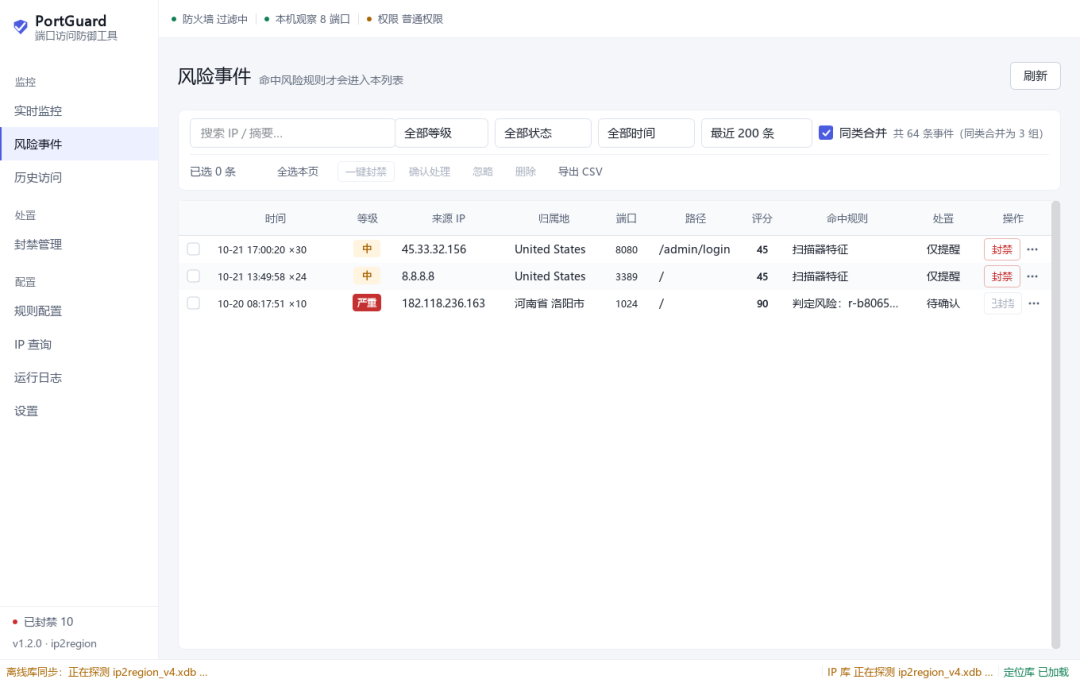
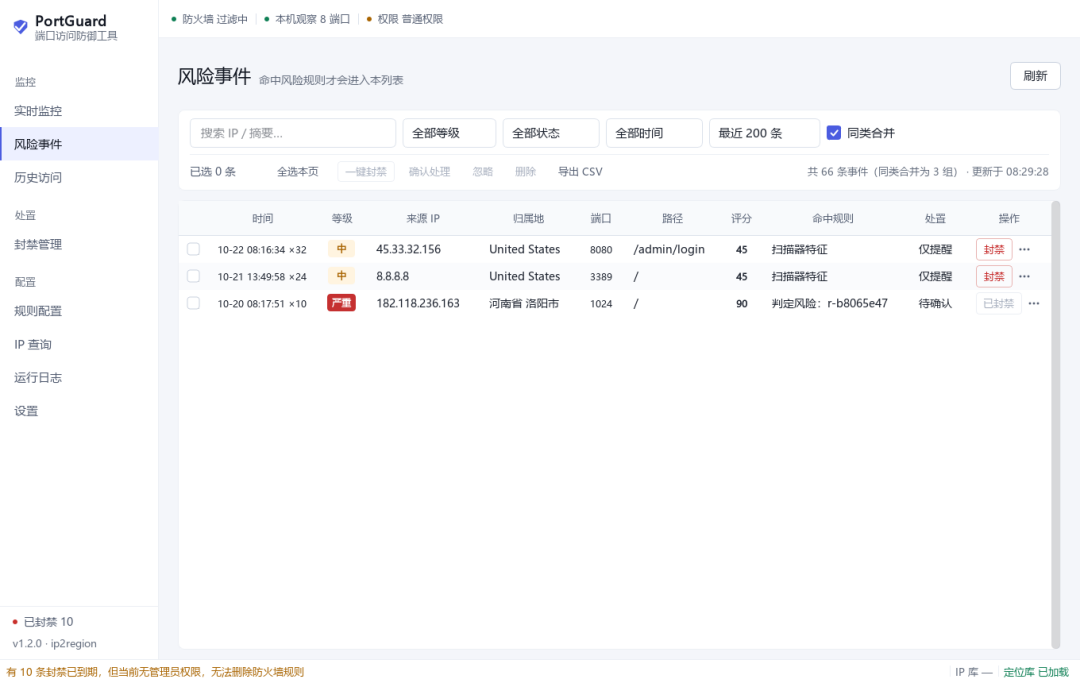
docs(design): 第二轮界面走查记录 + 按新界面重出 6 张配图
- 03_ui_polish.md 补 §10（第二轮）：列宽预算表、整数行吸附算法、卡头抗压取舍、
  RefreshGuard 三态、IP 查询四格、EmptyState 折行；§5/§8 同步更新布局契约
- 第一轮 5 条遗留标为已收口，并留 4 条下一轮候选（设置页下半空、规则卡字段靠左、
  UA 列截断、时间戳无 hover 详情）
- screenshots/ 六张按新界面重出（1080 宽，与 README 引用一致）

diff --git a/_design/03_ui_polish.md b/_design/03_ui_polish.md
@@ -82,6 +82,14 @@
 - **封禁管理页**：上下两块统一为卡片（`待确认的封禁建议（N）` / `封禁记录（N）`），
   各带标题行、筛选行、批量行；两块之间用 10px 透明分隔条。原来下方是裸工具栏 + 裸表格。
 - **顶部状态条**：`防火墙 · 本机观察 · 权限`，顺序即「是否真在防护 → 在保护谁 → 能不能动手」。
+- **表单内容列（2026-10-22）**：规则配置与设置页的卡片限宽 `CONTENT_MAX_W = 900` 并
+  水平居中（`QVBoxLayout.setAlignment(AlignHCenter)`）。1360 窗口下页面可用宽约 1160，
+  而这两页每行只有「128px 标签 + 一个字段」，铺满会把卡片拉到 1100 宽、内容只占左侧
+  60%。900 的依据是实测最小需求：规则卡最宽一条（`geo_sensitive_port`，4 个参数）810，
+  设置面板最宽一块（离线库在线同步）846，各留 50~90 余量。
+  **不做两列卡片流**：`geo_sensitive_port` 一卡就要 810，两列 580 放不下，字段会溢出。
+- **内容列只用于表单页**：监控 / 事件 / 封禁 / 历史访问是表格页，仍然满宽 —— 表格列宽
+  预算是按 1099 视口算的，收窄反而更挤。
 
 ## 6. 层级与深度
 
@@ -101,7 +109,21 @@
 - 窗口最小 1240×720，默认 1440×900；截图按 1360×860 复核。
 - 表格列宽为硬约束（无横向滚动）：有界内容给足不截断，无界内容（路径 / 命中规则 /
   原因）走 tooltip。
-- 所有图标按钮 22×22（行内）/ 30×30（工具条），表格行高 34，表头随字号。
+- **列宽预算（2026-10-22 重算）**：1360 窗口下表格视口实测 **1099**（监控 / 事件）、
+  **1097**（封禁记录）。每页只有一列是 `Stretch`，它拿到的是「视口 − 固定列合计」，
+  所以改任何固定列都会直接改变这一列的宽：
+  | 页 | Stretch 列 | 固定列合计 | Stretch 实得 | 该列内容需要 |
+  | --- | --- | --- | --- | --- |
+  | 实时监控 | 请求 | 890 | **209** | 205（`POST /api/v1/orders/search`） |
+  | 风险事件 | 路径 | 977 | 122 | 110（`/api/v1/orders/search`，不含方法） |
+  | 封禁记录 | 原因 | 829 | 268 | 234（`[自动] 命中规则：判定风险：1024`） |
+  旧监控配置固定列合计 1151 > 1099，请求列只剩 121 —— `POST /admin/login` 显示成
+  `POST /admi…`，除右键菜单外看不出访问了什么。**加列 / 加宽前先算这张表。**
+- **Qt 的单元格内边距比 QSS 写的 `padding: 0 10px` 更大**：处置列按 `QFontMetrics`
+  量「仅提醒」= 40px、加 20 内边距 = 60，但 62 仍然渲染成「仅…」，70 才稳。
+  所以短词列的定法是「实测 + 10」，不能只用字宽 + 内边距。
+- 所有图标按钮 22×22（行内）/ 30×30（工具条），表格行高 34，表头 44（比行高更高，
+  算建议卡高度时必须按 44 算，别用 34）。
 
 ## 9. 证据与遗留
 
@@ -129,14 +151,132 @@
   逐条实测）、`test_py38_compat` AST 全扫、`test_theme` 全部通过。**结论：发布前需在真机
   （2008 R2 / Win7）跑一次 `selftest.py` 确认离屏渲染。**
 
-### 未完成 / 下一轮
+### 第一轮遗留（5 条，已在第二轮全部收口，见 §10）
 
-1. **表单类页面右侧留白过多**：规则配置 / 设置 / IP 查询三页在 1360+ 宽度下内容只占
-   左侧 55%，卡片右半与页面下半都是空的。建议给内容列设 max-width（约 980px）居中，
-   或把「标签 → 字段」改成两列网格。
-2. **实时监控「请求」列**：`POST /admin/login` 在 1360 宽下被截成 `POST /admi…`。
-   根因是固定列宽合计 1151 > 可用宽 1098，`请求` 作为唯一拉伸列只能拿到约 120px。
-   需要重新量列宽（两栈字体差异 6~20%），或把方法做成徽章、路径独立一列。
-3. **封禁页顶部建议卡会切掉半行**：分隔条给的高度不是行高整数倍（34px）。
-4. **封禁建议卡头拥挤**：标题 + 说明 + 5 个按钮挤一行，1440 以下会被压。
-5. **刷新缺少中间态**：只有空态 `EmptyState`，没有加载/刷新中的反馈。
+1. ~~表单类页面右侧留白过多~~ → 内容列限宽 900 居中（§5）
+2. ~~监控「请求」列被截成 `POST /admi…`~~ → 固定列合计 1151 → 890（§8 预算表）
+3. ~~封禁页建议卡切半行~~ → 高度吸附到整数行（§10.3）
+4. ~~封禁建议卡头拥挤~~ → 说明文字改为唯一可压缩项（§10.4）
+5. ~~刷新缺少中间态~~ → `RefreshGuard`（§10.5）
+
+## 10. 第二轮（2026-10-22）：把「留白 / 截断 / 没反应」收口
+
+第一轮解决的是层级（卡片、勾选、状态），第二轮解决的是**预算与反馈**：三处内容
+排不满、两处列宽超出了表格可视区、一处点了刷新没有任何回应。这一轮全部改动都在
+`gui/`，`core/` 一行没动。
+
+### 10.1 监控表列宽重排（按实测，不按感觉）
+
+`_design/measure_cols.py` 的思路：把每列最长内容用 `QFontMetrics` 量出来，加内边距
+后与列宽逐列比对，输出「需 / 现宽 / 余」。改前结果：
+
+```
+请求  宽=121 需=205 截断  'POST /api/v1/orders/search'
+服务器 宽=92  需=108 截断  'web-prod-01'
+```
+
+重排后（固定列 890，请求列 209）：
+
+```
+时间 72 · 风险 52 · 来源 IP 138 · 归属地 132 · 端口 58 · 协议 52
+请求 209(Stretch) · 状态 52 · 命中规则 152 · 处置 70 · 服务器 112
+```
+
+三处刻意的取舍：
+
+- **归属地只给 132**：境内「河南省 洛阳市」108 够用，境外「加利福尼亚州 弗里蒙特」
+  要 164，超出后走 tooltip —— 用 32px 换请求列能完整显示路径，划算。
+- **处置 70 而不是 60**：`QFontMetrics` 说 60 够，实际 62 仍渲染成「仅…」，见 §8。
+- **来源列 58 而不是 50**（封禁记录）：「自动」在 50 下被渲染成「自…」，同一类偏差。
+
+### 10.2 事件页：计数行挪位 + 操作列加宽
+
+`共 66 条事件（同类合并为 3 组） · 更新于 08:18:33` 原本挂在筛选行末尾，而那一行
+已经有搜索框 + 4 个下拉 + 复选，1360 下直接溢出卡片右边被裁。挪到批量行右端（那
+一行只有按钮、右半本来就空着），并把操作列 96 → 106（行内「封禁」+「⋯」两个按钮
+在 96 下第二个被切掉）。
+
+### 10.3 建议卡高度吸附整数行
+
+`QSplitter` 给的 268 不是「面板开销 + N×行高」：表头 44 + 卡头 46 + 边 4 = 94，
+268 − 94 = 174 = 5×34 + 4 —— 底部正好露出 4px 的下一行，看着像半行被切掉。
+
+做法不是写死 264/298，而是在 `showEvent` 与 `splitterMoved` 后按**实测开销**吸附：
+
+```python
+rows   = round((panel.height() - chrome) / row_height)
+target = chrome + rows * row_height      # chrome = 卡头 + 表头 + 边框，运行时量
+```
+
+不写死 94 的原因：卡头高度随字体走，两栈（雅黑 9pt / PySide2 度量偏大）差两三个
+像素就会让吸附算错一行。
+
+### 10.4 卡头抗压：说明是唯一可牺牲项
+
+卡头一行装「标题 + 说明 + 已选 + 4 个按钮」，`sizeHint` 合计 655。说明
+（「规则引擎建议，需人工确认」）与页头副标题重复，所以把它设成
+`QSizePolicy.Ignored`（布局优先压它）+ 页面宽 < 900 时直接隐藏。
+**按钮是操作入口、说明是补充信息** —— 挤压时先牺牲后者。
+
+### 10.5 刷新中间态：`RefreshGuard`
+
+原实现点了「刷新」没有任何回应，用户只能用「表格内容变没变」猜有没有生效。
+新增 `widgets.RefreshGuard`（上下文管理器），四个列表页共用：
+
+| 阶段 | 标签文案 |
+| --- | --- |
+| 进入 | `正在刷新…`（并 `processEvents()` 一次，否则字画不出来） |
+| 结束 | 页面写的结果文案 + ` · 更新于 HH:MM:SS`；页面没写就只留时间戳 |
+| 异常 | 照常向上抛（吞掉会变成「界面没反应」，更难查） |
+
+`processEvents()` 期间界面仍会收点击，所以进入前先查 `busy` —— 叠两次查询不只是
+浪费，列表还会被两次重排。三个列表页的 `refresh()` 都改成「先查 busy → with 包住
+整个查询与渲染」。
+
+**没做遮罩**：本机 SQLite 查询 10~50ms，灰蒙一层只会闪一下，比不提示更像卡顿。
+
+### 10.6 IP 查询页
+
+- 单条查询结果从「一句拼起来的长文本」改成**四个固定字段**（归属地 / 国家码 / ISP /
+  范围），2:1:1:1 分宽。原文案字段边界全靠全角空格，长 IPv6 归属地一超宽整句换行。
+- 库信息从 `PageHeader` 的 action 区挪到标题下独立一行 —— 和标题、按钮抢同一条
+  横向空间时被压成半截话。
+- 初始就调 `_toggle_empty()`：原先表头与空态同时出现，页面下半悬着一块只有表头的
+  空表格。
+
+### 10.7 `EmptyState` 折行
+
+自动换行的 `QLabel` 在 `QVBoxLayout` 里只拿「最小宽度」，说明会被折成
+「输入 IP 后点查询，结 / 果会显示在这里」这种断在词中间的碎句。改成
+`setMinimumWidth(320) / setMaximumWidth(460)` + 水平居中，先按整句排、超 460 再换行。
+四个页面的空态一起受益。
+
+### 10.8 验证
+
+| 门禁 | 结果 |
+| --- | --- |
+| `ruff check . && ruff format --check .` | 通过（102 文件） |
+| `mypy .` | Success: no issues found in 99 source files |
+| `pytest -q`（开发栈） | **762 passed / 2 skipped**（751 + 本轮新增 11 条） |
+| `python selftest.py`（离屏 42 项） | 全部通过，退出码 0 |
+
+- 新增 `tests/test_ui_layout.py`（11 条）：列宽预算 4 条、内容列限宽与居中 2 条、
+  刷新守卫 4 条、单条查询字段 1 条。
+- **变异验证**（把实现改回错的样子，确认用例真的红）：
+  - 监控表列宽改回旧值 → `请求列只剩 121px` 红；
+  - 处置列压到 56 → 红；
+  - `RefreshGuard.__exit__` 不写时间戳 → 两条红（还顺带暴露「一直停在正在刷新…」）；
+  - `_Panel` 去掉 `setMaximumWidth` → 红。
+- 离屏渲染 7 页逐张核对（含 1360 全尺寸放大看列内容），`screenshots/` 六张配图重出。
+
+### 10.9 剩余 / 下一轮候选
+
+1. **设置页下半部空**：「服务与采集」tab 只有一个面板，页面下方 400px 空白。这是
+   内容量问题，靠限宽解决不了 —— 要么把「运行状态 / 最近事件」提到该 tab 右侧做两栏，
+   要么把面板按逻辑拆成两张卡（观察设置 / 运行状态）并排。属于信息架构改动，先不动。
+2. **规则卡内字段靠左**：卡片 900 宽，`geo_sensitive_port` 内容 810 尚可，但「黑名单
+   命中」只有 3 个字段（402），右侧空一半。可选做法：每卡按内容宽度自适应（宽度不统一，
+   视觉更乱，暂不采用）。
+3. **历史访问页「用户代理」列**：1360 下只显示成 `Mozilla/5.0 (…`，按设计属无界内容、
+   走 tooltip，但如果要显示，需要把「状态码 / 评分」两列合并。
+4. **刷新时间戳没有 hover 详情**：只能看到「几点刷的」，看不到「刷了多少行 / 耗时」。
